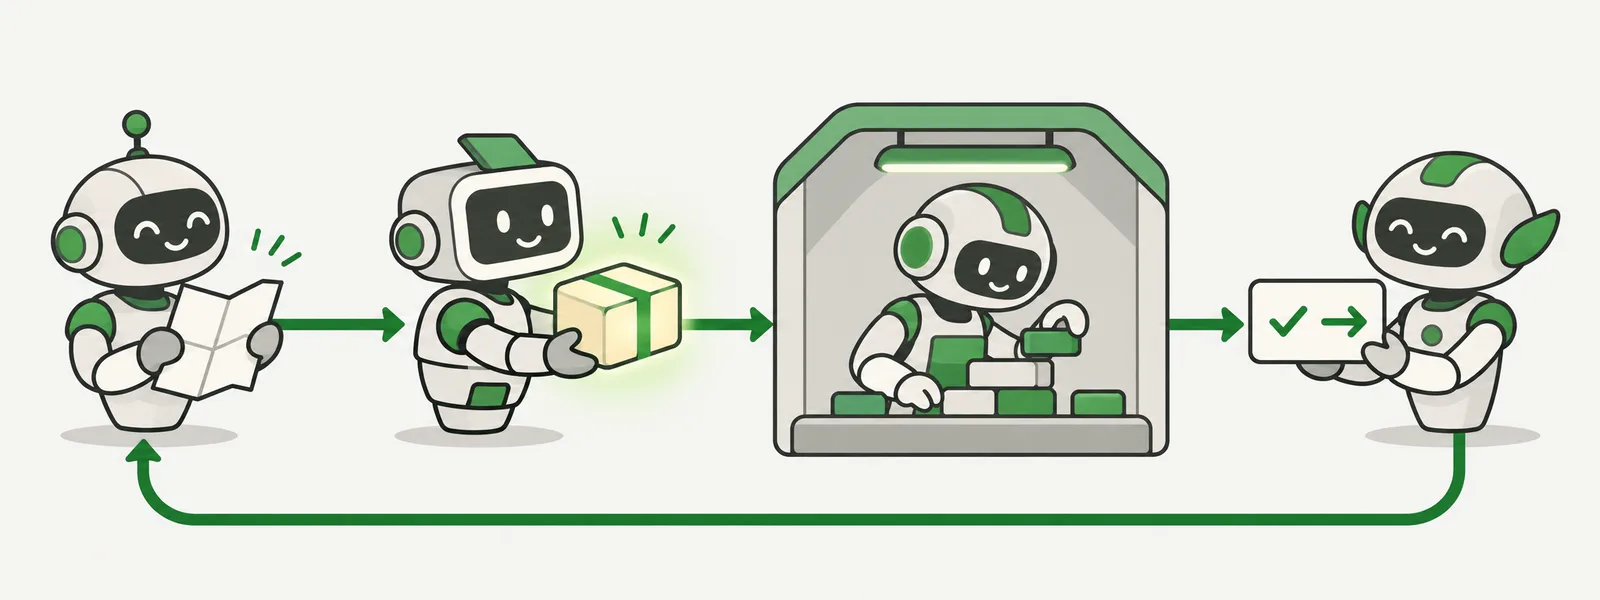
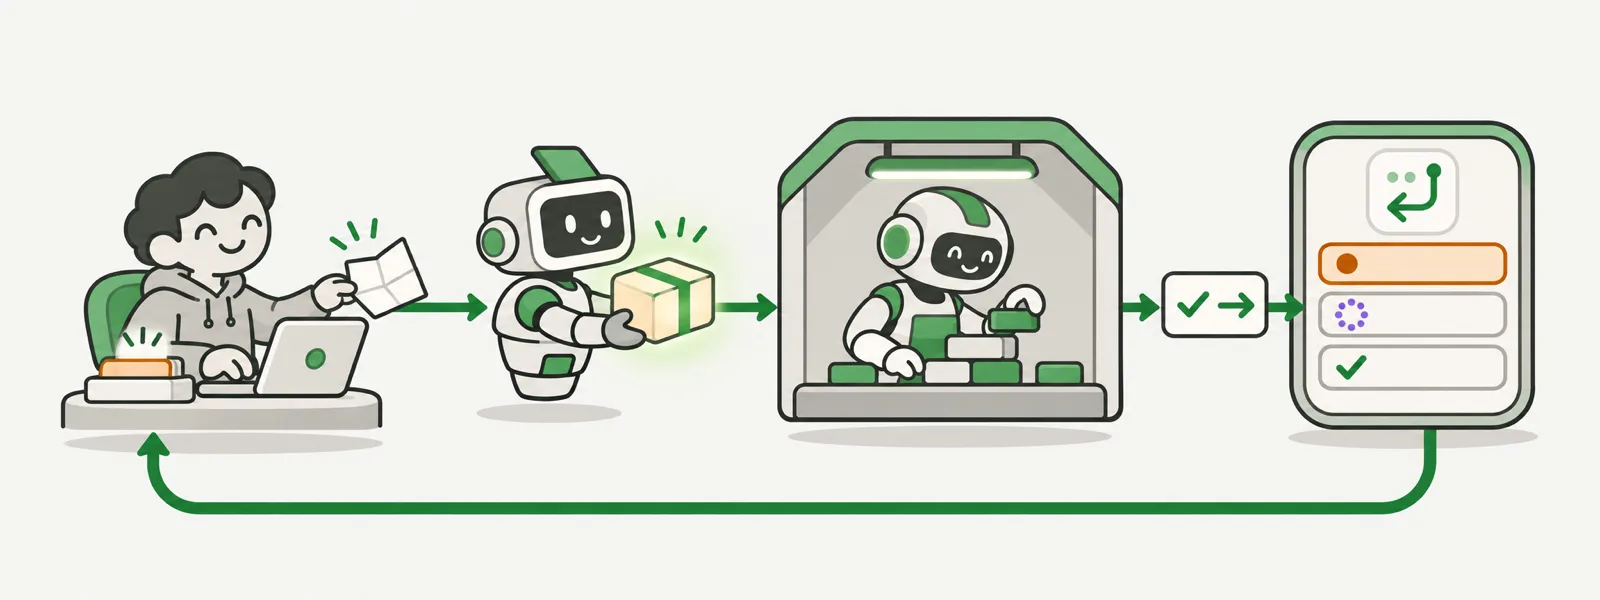
feat(site): show one end-to-end tutorial when the whole bundle is picked
Picking all five skills with Claude Code now replaces the per-skill chat
examples with one task walked through the whole loop: Claude briefs
Codex, Codex draws an empty-state illustration, Claude reviews it, relays
the feature to Codex in a worktree and reviews the diff, and the reply
ends with an Outcome and one Next step. Partial selections and Codex-only
installs keep the per-skill examples.

The tutorial lives in catalog.bundle.example; bundleExample() decides
when it shows and is covered by the installer tests.

Also refresh the loop art with real alt text, point the loop note at the
Your Turn inbox, lay the flow steps out in two or four columns, and bump
the stylesheet and installer cache keys.

Changed region(s): [[0.0312, 0.15, 1.0, 0.9]]

diff --git a/site/index.html b/site/index.html
@@ -7,9 +7,9 @@
 <title>Choose your skills · Your Turn Loop</title>
 <script>try{document.documentElement.dataset.theme=localStorage.getItem('theme')||(matchMedia('(prefers-color-scheme: dark)').matches?'dark':'light')}catch{document.documentElement.dataset.theme='light'}</script>
 <link rel="icon" href="icon.svg" type="image/svg+xml">
-<link rel="stylesheet" href="style.css?v=one-product-2">
+<link rel="stylesheet" href="style.css?v=one-product-3">
 <script type="module" src="theme.mjs?v=1"></script>
-<script type="module" src="install.mjs?v=skill-picker-5"></script>
+<script type="module" src="install.mjs?v=skill-picker-6"></script>
 <body>
 <!-- GitHub mark from Primer Octicons; license in third-party/primer-octicons-MIT.txt. -->
 <header>
@@ -23,7 +23,7 @@
 <main>
   <h1>Choose your skills</h1>
   <section id="flow" class="flow hud-panel" aria-labelledby="flow-title" hidden>
-    <img class="flow-art" src="flow/agent-loop.webp" alt="" width="1600" height="600">
+    <img class="flow-art" src="flow/agent-loop.webp?v=3" alt="The loop: you hand a brief to your agent, it delegates the work to another agent in its own workspace, the result lands as a card in the Your Turn inbox, and you start the next brief from the card that needs you." width="1600" height="600">
     <div class="flow-heading">
       <div>
         <p class="flow-kicker">Bundle</p>
@@ -33,7 +33,7 @@
       <button id="flow-select" class="button-secondary" type="button" aria-pressed="false">Select bundle</button>
     </div>
     <ol id="flow-steps" class="flow-steps"></ol>
-    <p class="flow-loop"><span aria-hidden="true">↺</span> Paste the result back into what-to-ask for the next brief.</p>
+    <p class="flow-loop"><span aria-hidden="true">↺</span> Results that need you show up in the <a href="https://martin-gomola.github.io/your-turn/">Your Turn inbox</a>. You carry one back: paste its Outcome and Next step into what-to-ask for the next brief. No skill moves it for you.</p>
     <a class="flow-spec" href="spec.html">Read the handoff protocol spec <span aria-hidden="true">→</span></a>
   </section>
   <div class="workspace">

diff --git a/site/style.css b/site/style.css
@@ -95,6 +95,9 @@ fieldset { min-width: 0; margin: 0; padding: 0; border: 0; }
 :root[data-theme="dark"] .agent-logo { filter: invert(1); }
 .related { display: block; margin: 22px 0 0; padding-top: 14px; border-top: 1px solid var(--line); font-size: 14px; line-height: 1.5; }
 .example-block { margin-top: 20px; padding-top: 16px; border-top: 1px solid var(--line); }
+.example-steps { margin: 16px 0 14px; padding-left: 22px; font-size: 15px; line-height: 1.5; }
+.example-steps li + li { margin-top: 6px; }
+.example-steps code { font-weight: 600; overflow-wrap: anywhere; }
 .example-block summary { cursor: pointer; color: var(--ink); font: 700 13px/1.4 var(--mono); letter-spacing: .08em; text-transform: uppercase; }
 
 /* The action is a solid block with the HUD chamfer (no border, so nothing for the clip to cut). */
@@ -169,8 +172,7 @@ pre { max-width: 100%; margin: 12px 0 0; padding: 14px; overflow-wrap: anywhere;
 
 @media (min-width: 721px) {
   .skill-options { grid-template-columns: repeat(2, minmax(0, 1fr)); }
-  .flow-steps { grid-template-columns: repeat(3, minmax(0, 1fr)); }
-  .flow-steps li + li::before { content: "→"; position: absolute; top: 50%; left: -12px; transform: translate(-50%, -50%); color: var(--accent); font-weight: 700; }
+  .flow-steps { grid-template-columns: repeat(2, minmax(0, 1fr)); }
   .spec-fields { grid-template-columns: repeat(2, minmax(0, 1fr)); }
 }
 @media (max-width: 720px) {
@@ -185,6 +187,8 @@ pre { max-width: 100%; margin: 12px 0 0; padding: 14px; overflow-wrap: anywhere;
   .workspace { grid-template-columns: minmax(0, 1.3fr) minmax(340px, 1fr); }
   .result { position: sticky; top: 16px; }
   .agent-list { grid-template-columns: repeat(3, minmax(0, 1fr)); }
+  .flow-steps { grid-template-columns: repeat(4, minmax(0, 1fr)); }
+  .flow-steps li + li::before { content: "→"; position: absolute; top: 50%; left: -12px; transform: translate(-50%, -50%); color: var(--accent); font-weight: 700; }
 }
 @media (prefers-reduced-motion: reduce) {
   .pet-preview { display: none; }

diff --git a/site/spec.html b/site/spec.html
@@ -7,7 +7,7 @@
 <title>Handoff protocol · Your Turn Loop</title>
 <script>try{document.documentElement.dataset.theme=localStorage.getItem('theme')||(matchMedia('(prefers-color-scheme: dark)').matches?'dark':'light')}catch{document.documentElement.dataset.theme='light'}</script>
 <link rel="icon" href="icon.svg" type="image/svg+xml">
-<link rel="stylesheet" href="style.css?v=one-product-2">
+<link rel="stylesheet" href="style.css?v=one-product-3">
 <script type="module" src="theme.mjs?v=1"></script>
 <script type="module" src="spec.mjs?v=1"></script>
 <body>
